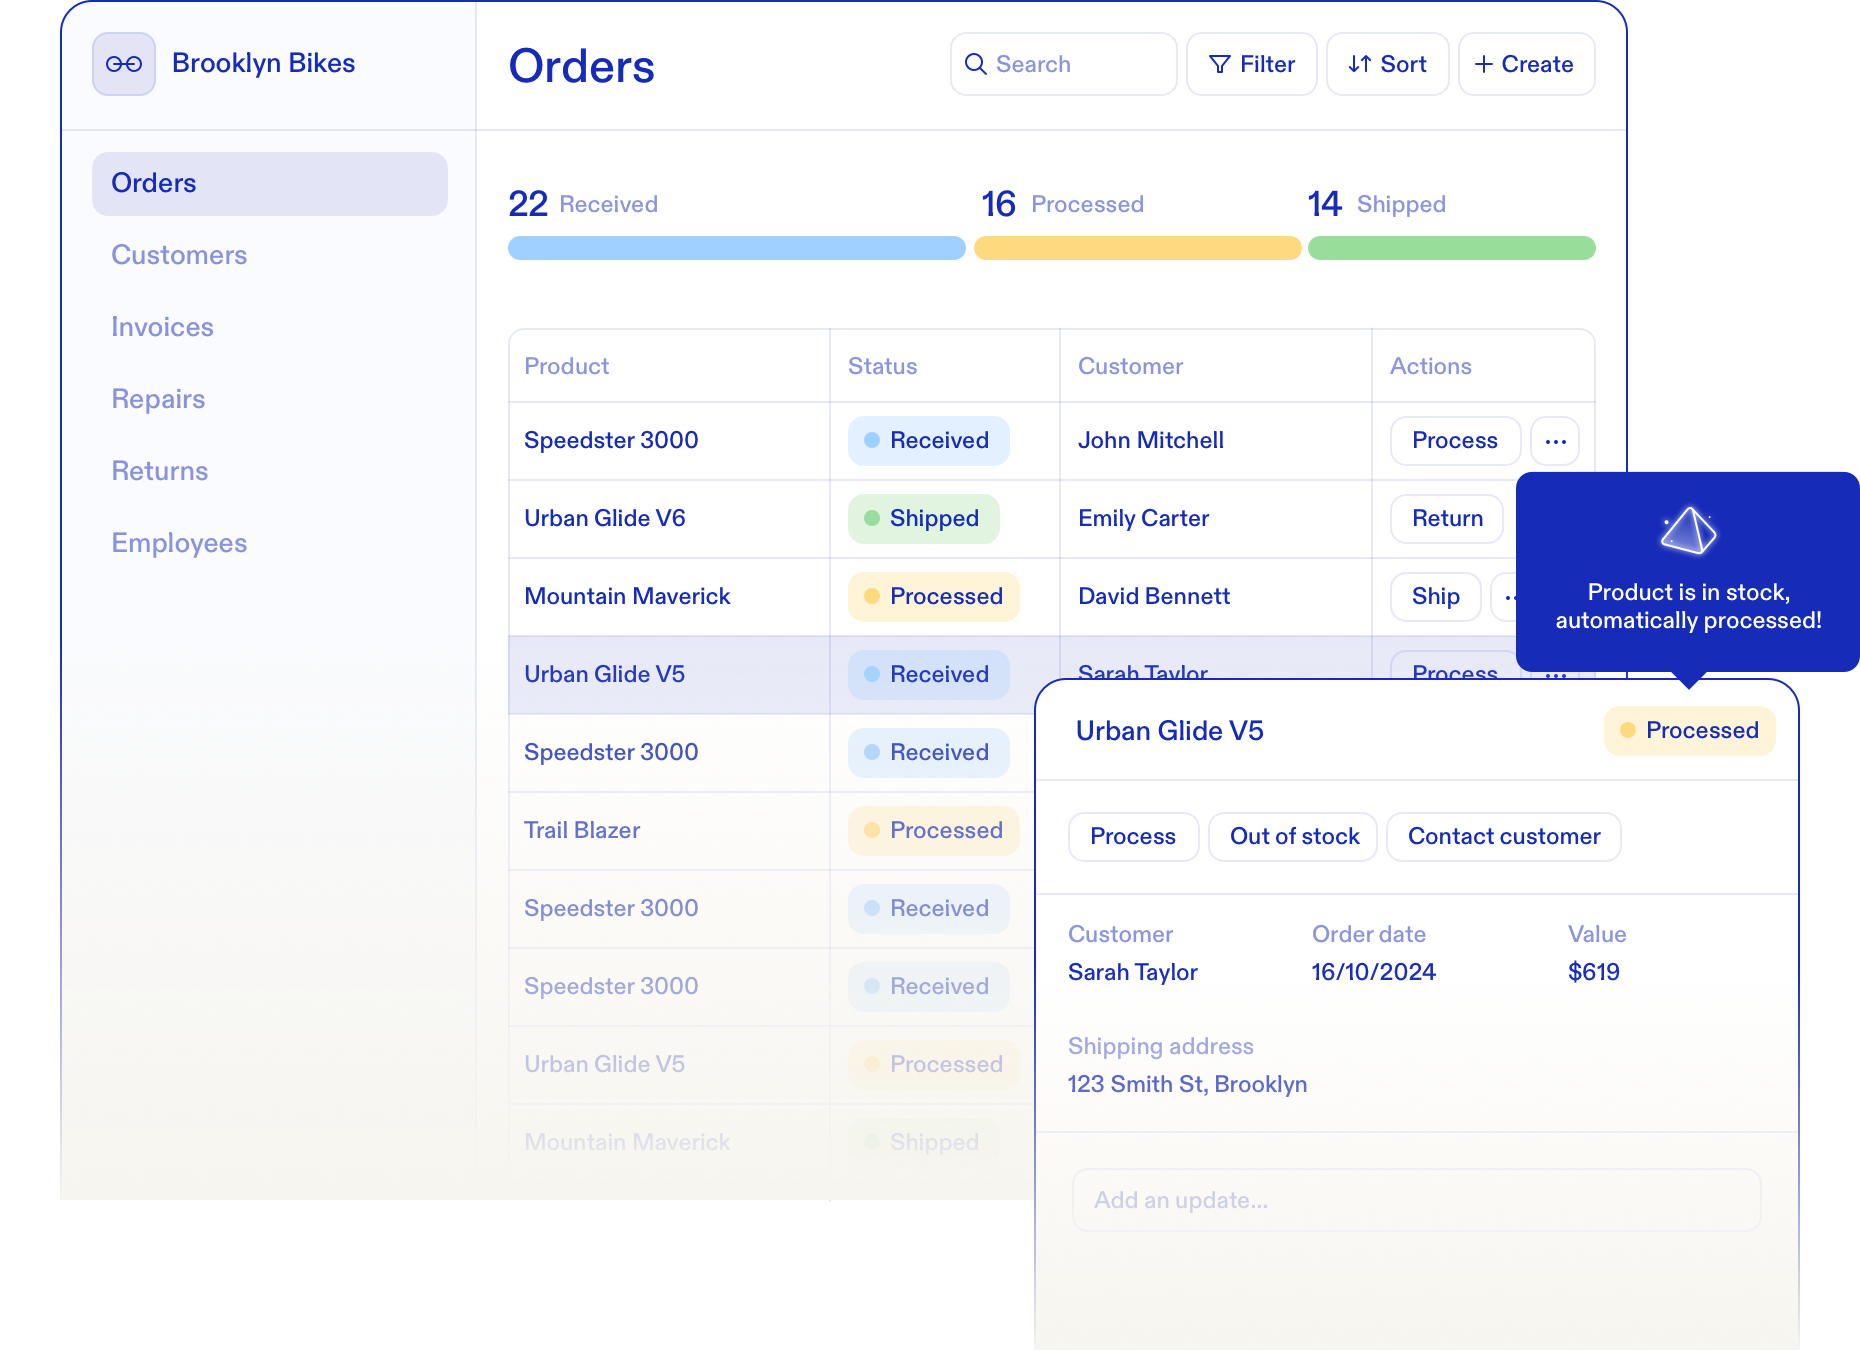
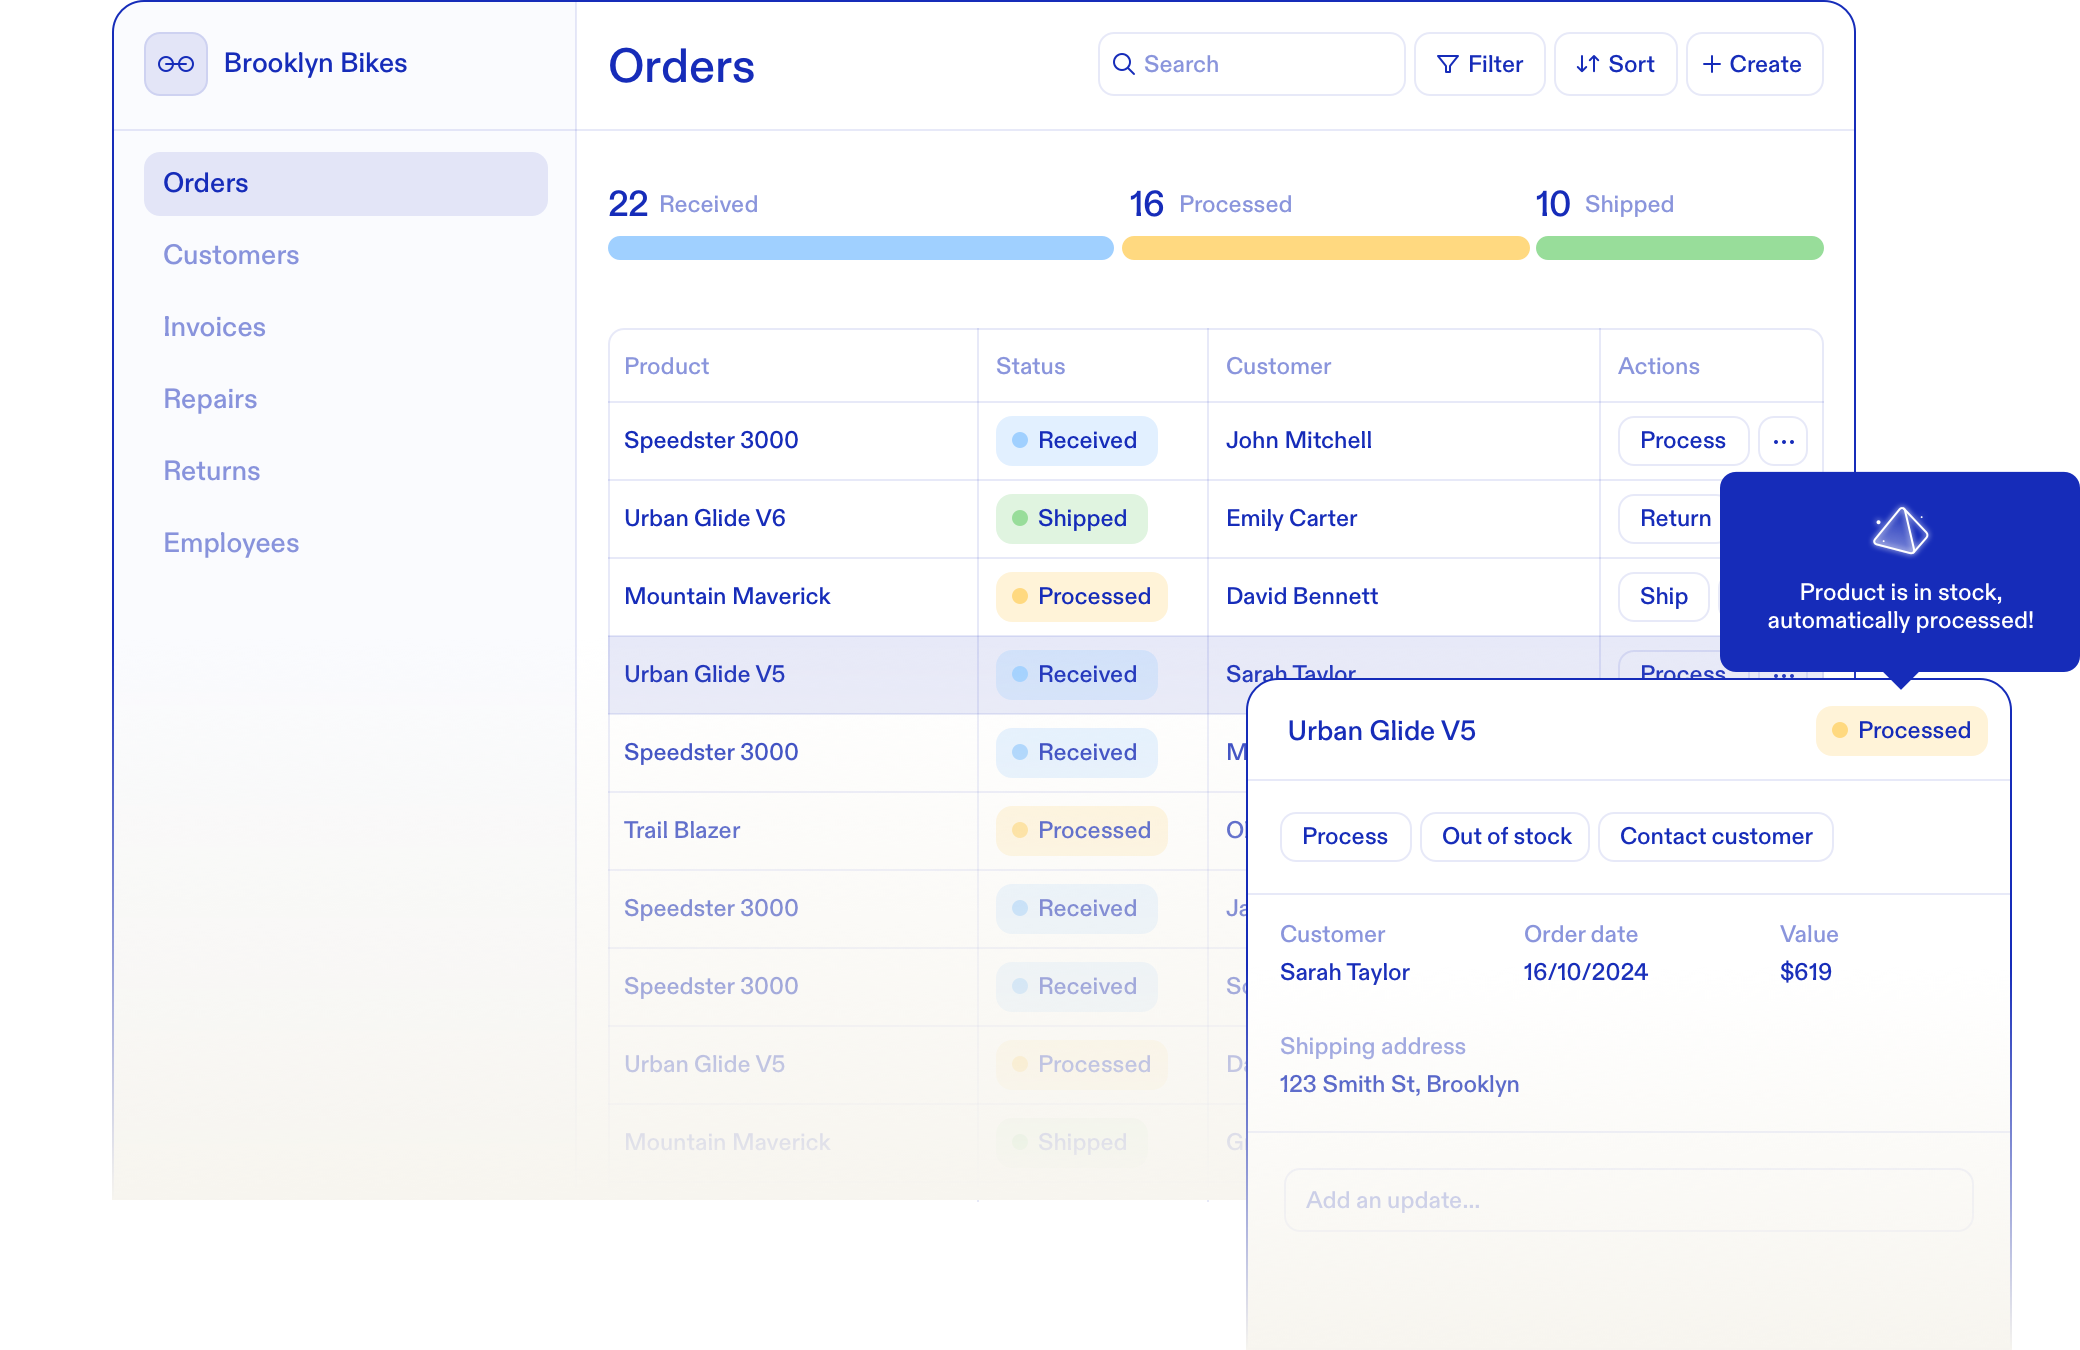
a

diff --git a/style.css b/style.css
@@ -446,7 +446,7 @@ a {
     width:48px
 }
 .product-ui {
-    width:930px;
+    width:1040px;
     margin-top:30px;
 }
 .testimonial {
